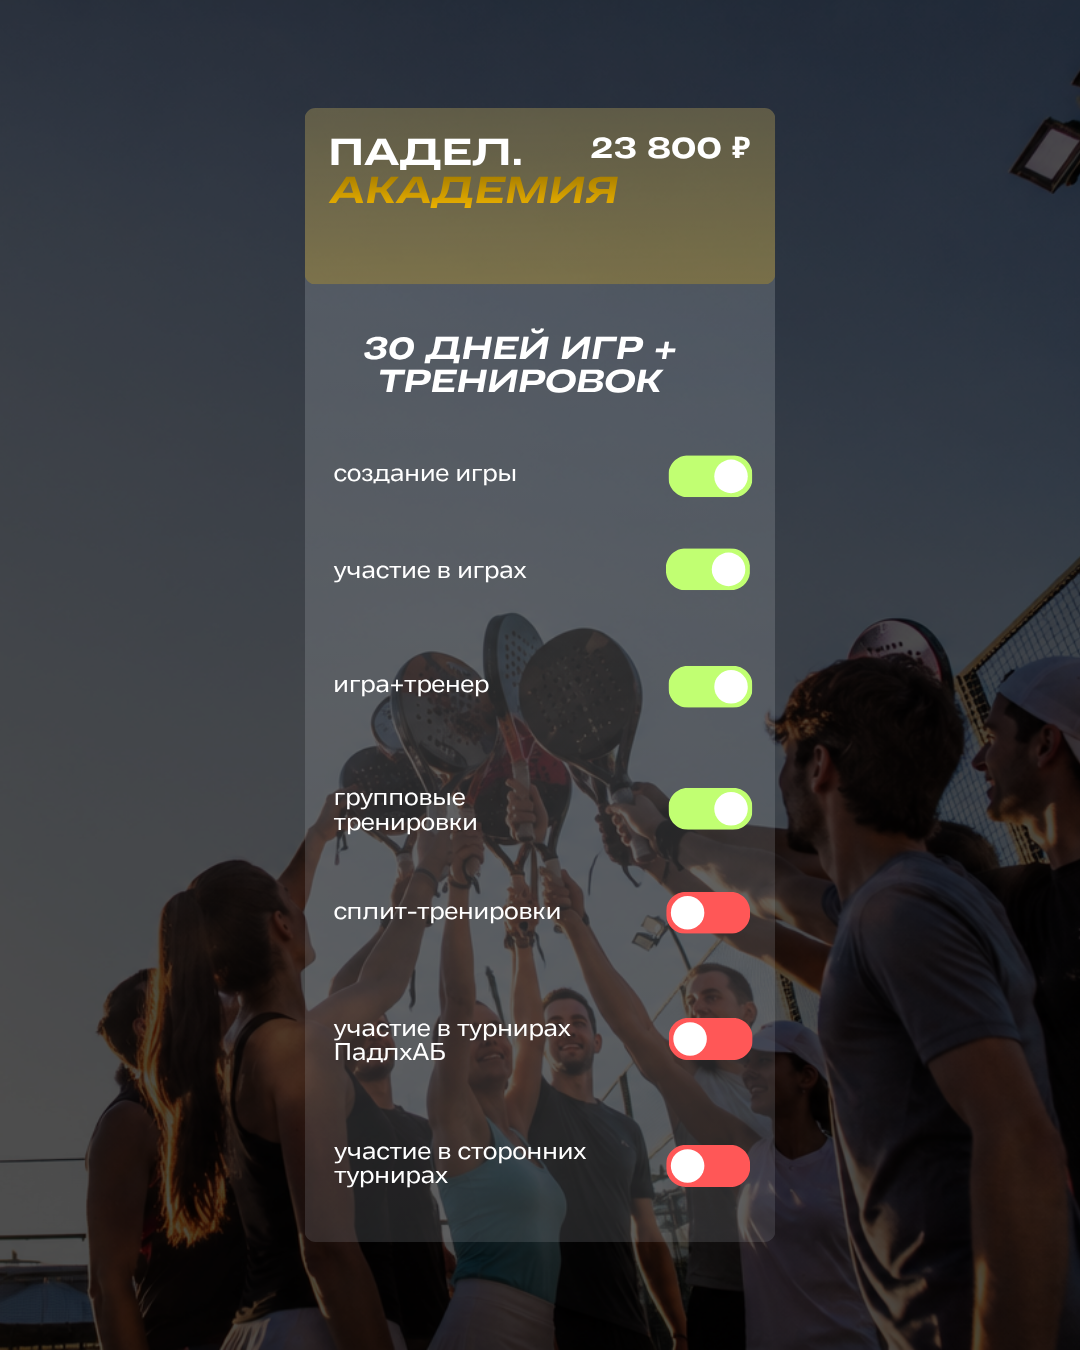
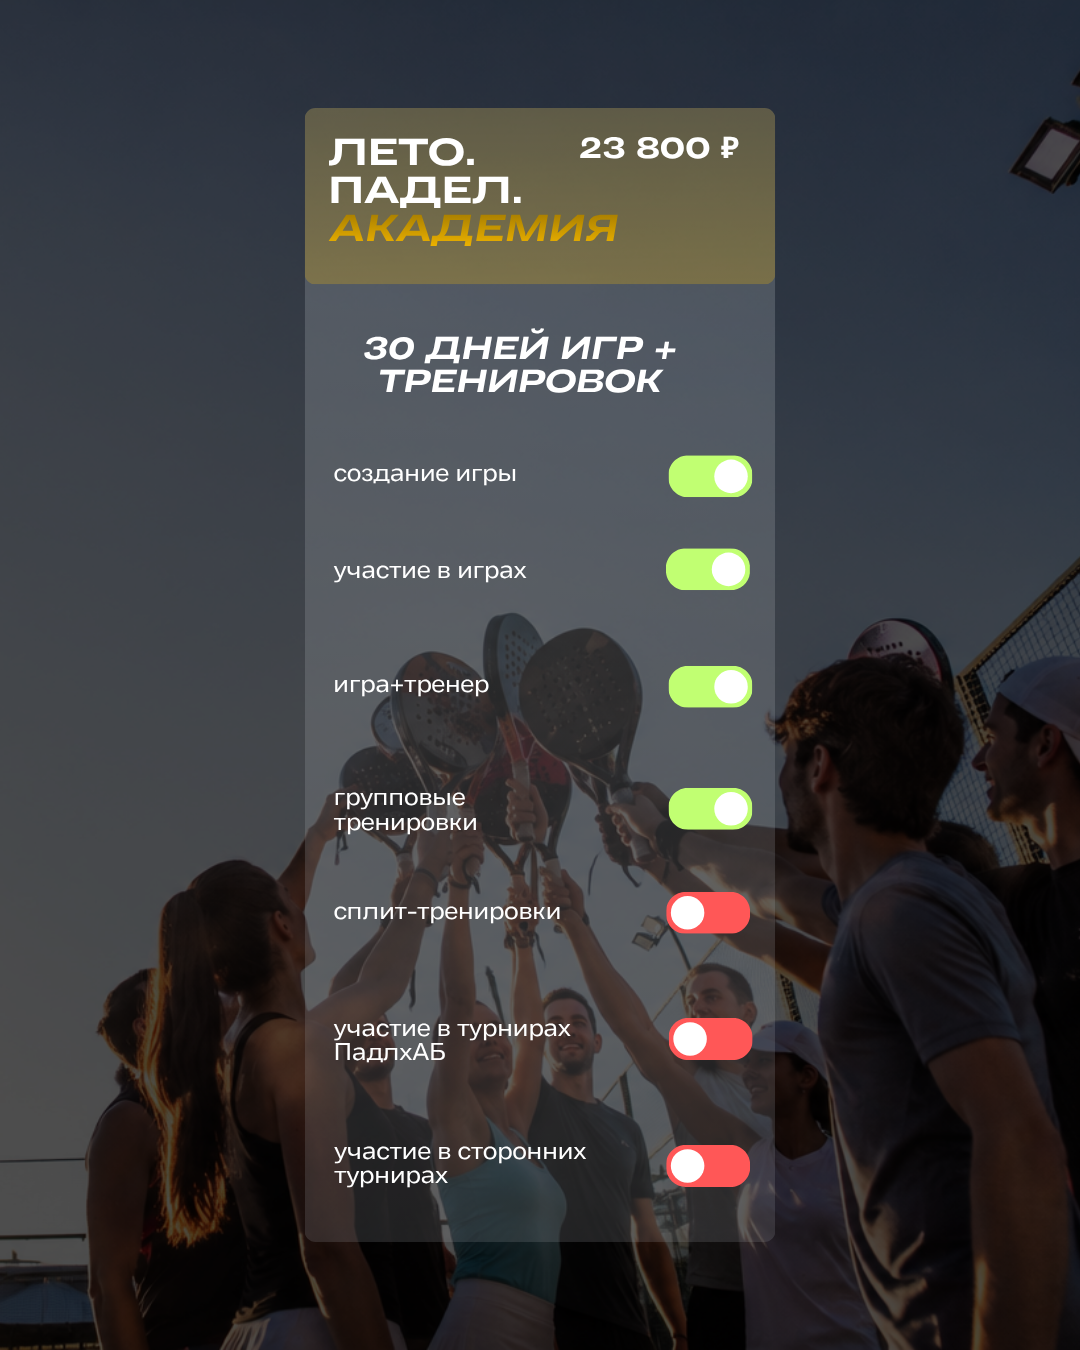
ci: pin approved ab_leto artwork

Changed region(s): [[0.3056, 0.0933, 0.7028, 0.1867]]

diff --git a/scripts/tests/tournamentSubscriptionLayout.test.ts b/scripts/tests/tournamentSubscriptionLayout.test.ts
@@ -16,6 +16,7 @@ const EXPECTED_STOREFRONT_ASSETS = new Map([
[7 lines of base64/hex data omitted]

diff --git a/docs/README_DEPLOY.md b/docs/README_DEPLOY.md
@@ -674,6 +674,8 @@ https://padlhub.ru/tournament_subscription
 проверка телефона, server-owned остатка и purchase binding остаются обязательными.
 Подпись о дате вступления правил в силу также скрыта на общей витрине; отдельные
 региональные страницы продолжают показывать её по своим контрактам.
+Новые WebP-карточки закреплены точными SHA-256 в `lk1-subscription-enforcement`;
+PNG-дубликаты в кандидат не входят.
 Согласовательный макет ХАБ показывает `Доступно — 10 из 10`. Это synthetic
 status предпросмотра, а не активированная серверная дневная квота; frontend по-прежнему
 читает фактические числа из API, и изменение runtime inventory требует отдельного этапа.
